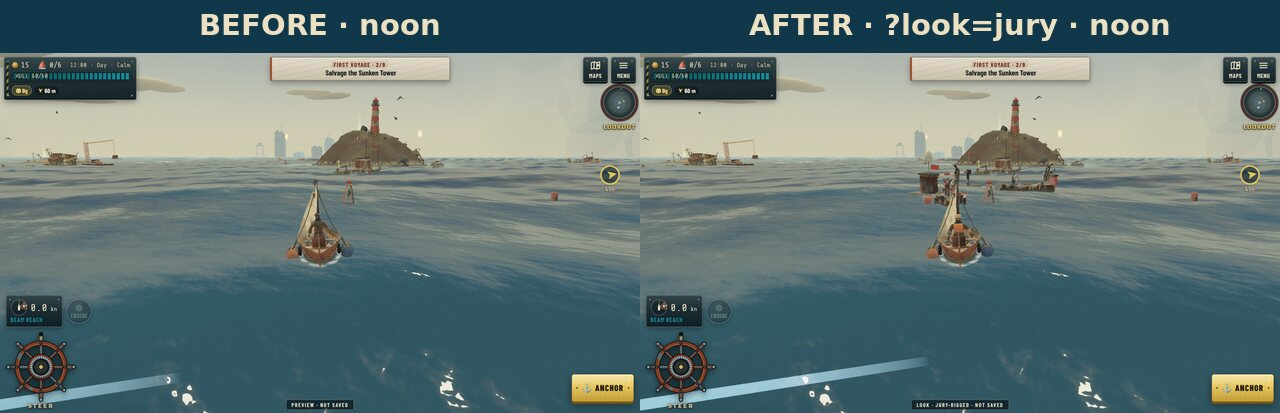
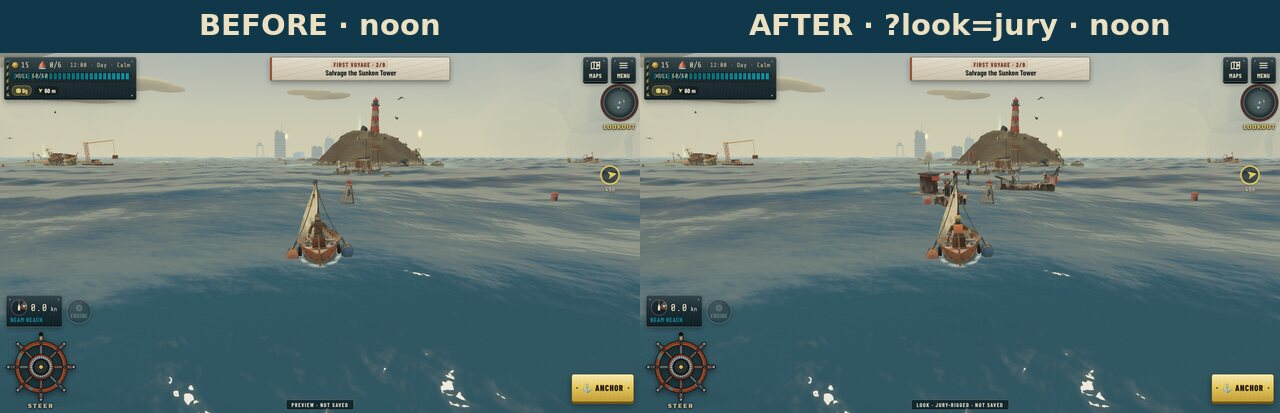
Jury-Rigged correction pass: re-measured captures, perf, silhouettes and results
- docs/jury-rigged: 40 frames re-captured on the correction build (phone, 4 keys; desktop, noon), sheets recomposed,
  perf.json and measure.json replaced, README results and remaining failures rewritten
- C1-C4 pass; C5 passes on triangles, foot slip and isolation, misses on draw calls in the Toll frame (visible new
  patrol) and one Driftholm storm reading; no real-device timing claimed

Claude-Session: https://claude.ai/code/session_0186uXpU7uEjEt1ELp3BgnnR

diff --git a/docs/jury-rigged/README.md b/docs/jury-rigged/README.md
@@ -15,7 +15,7 @@ and east past the harbour mouth. Like `?ship=` and `?exp=`, a look visit is a sa
 |---|---|---|
 | **Captain** (5.6 heads) | Driftholm: round, layered, lashed | wide sun hat cut from a sail (blue patch, goggles on the band); a life jacket worn as armour; rope-wrapped forearm; tin mug on a climbing carabiner. Same face, hair, scar and red scarf. **The tricorn, duster and bandolier are gone.** |
 | **Rustfang raider** (5.7 heads) | Rustfang: welded, sharpened, forward-leaning | a circular saw blade bolted upright on one shoulder, a road sign with spikes on the other, a car-bonnet chest plate, two exhaust pipes standing up from the back, and a saw blade on a scaffold pole instead of a cutlass |
-| **Jawboat** (raider boat) | Rustfang | a 1.9 m circular saw blade as the bow, rebar teeth along the jaw, road-sign warning triangles as shields, an outboard twice the size it needs, four exhaust stacks, a cage outrigger on one side only, tyre fenders, a horn cluster of three car klaxons, and a trophy rack of other crews' nameplates |
+| **Jawboat** (raider boat) | Rustfang | an open mouth at the bow: a welded upper jaw with teeth raking forward over a 1.9 m circular saw blade; road-sign warning triangles as shields, an outboard twice the size it needs with four exhaust stacks raked back off the transom, a cage outrigger on one side only, tyre fenders, three car klaxons, and a low trophy post of other crews' nameplates with the Rustfang rag |
 | **Signal Stack** (Driftholm landmark, 22 m) | Driftholm | drums under a deck, two containers stacked crosswise, a white plastic water tank, a scaffold lattice, a satellite dish turned up into a crow's nest, a traffic light re-glazed red/amber/bottle-white (its green lens is gone: green means alive here), an airport windsock, four guy lines with laundry bunting and festoon bulbs |
 | **Pier** | Driftholm | a clawfoot bath hung from a pipe davit as the lifeboat; supermarket trolleys as lobster pots, one let down on its rope with a jerrycan marker |
 | **The Toll** | Rustfang | a striped car-park barrier across the approach with saw teeth welded on top, a plate toll booth with a lit hatch and a STOP sign, two drum rafts, a red rag; two Jawboats patrol it |
@@ -23,7 +23,7 @@ and east past the harbour mouth. Like `?ship=` and `?exp=`, a look visit is a sa
 The 5.5-head cast is built by the existing MeshCraft script (`creative/3d-characters/scripts/survivors.py`): a
 **proportion pass** (`JURY`, `jury_warp`) scales each bone's own vertices and its children's offsets, so the same 22-bone
 rig, skin weights and clips carry over. The walk is the same procedural gait, retuned to the new legs (`retune()` in
-`src/player/gait.ts`): shorter stride, quicker cadence, livelier arms. Everything else is plain vertex-coloured
+`src/player/gait.ts`): shorter stride, quicker cadence, livelier arms, and a toe-off that hinges on the toe joint. Everything else is plain vertex-coloured
 geometry from `src/world/jury.ts`, merged into the existing batches.
 
 Sun-faded plastic (five approved accents) is tagged as plastic, so the weathering shader keeps more of its colour
@@ -31,57 +31,78 @@ and never rusts it; everything untagged is graded exactly as before.
 
 ## Results against the criteria
 
-The criteria were committed before implementation (`CRITERIA.md`, commit d9e9391). Numbers are from
-`scripts/jury-measure.mjs` (`measure.json`), `scripts/jury-shots.mjs` (`perf.json`) and `tests/jury.test.ts`.
-Captures: iPhone 17 viewport (402×874, DPR 2) and desktop 1280×720, headless Chromium with SwiftShader.
+The criteria were committed before implementation (`CRITERIA.md`, commit d9e9391). Numbers come from
+`scripts/jury-measure.mjs` (`measure.json`), `scripts/jury-shots.mjs` (`perf.json`) and `tests/jury.test.ts`, re-run
+after the correction pass on the PR head, which includes `main` through PR #66. "Today" means the default look on that
+same build: since #66, the default captain wears a salvage helmet instead of the tricorn.
 
 | # | Criterion | Result | Verdict |
 |---|---|---|---|
-| C1 | 5.5 ± 0.3 heads | captain **5.63**, raider **5.71** (today: 7.61 and 7.61, same method) | **Pass** |
-| C2 | silhouettes at 40 px: IoU ≤ 0.70 and lower than today | captain vs raider **0.642** (today 0.738): pass. Skiff vs Jawboat **0.340** (today 0.334): under 0.70, but **not lower than today** | **Partial**: characters pass; boats miss the "lower than today" clause by 0.006 |
-| C3 | Signal Stack tallest on screen, ≥ 40 px, lit at night | **157 CSS px** tall, its top 39 px above anything else in Driftholm, in all four keys; the lamps and festoon bulbs render at night | **Pass** |
-| C4 | accents ≤ 10 % of every frame; none green or gold | max **3.0 %** (on foot by the Stack), 0.2–0.8 % at sea; palette test passes | **Pass** |
-| C5 | ≤ +10 % triangles, ≤ +2 draw calls; feet slip ≤ 1 cm; default fetches nothing | triangles at most **+9.5 %** in any frame (phone and desktop): pass. Draw calls: see below. Flat-foot slip **0.01 cm** walking, **0.07 cm** running; toe-off **1.72 / 2.76 cm**. A default visit fetched **no** Jury-Rigged file (the code, about 8 KB gzipped, ships dormant inside the existing game bundle), and all **480** tests pass | **Partial**: draw calls and toe-off slip miss |
+| C1 | 5.5 ± 0.3 heads | captain **5.63**, raider **5.71** (today 7.61 and 7.61, same method) | **Pass** |
+| C2 | 40 px silhouettes: IoU ≤ 0.70 and lower than today | captain vs raider **0.642** (today 0.678); Patchwork Skiff vs Jawboat **0.279** (today 0.334) | **Pass** |
+| C3 | Signal Stack tallest on screen, ≥ 40 px, lit at night | **157 px** tall on phone (167 on desktop), its top 39 px above anything else in Driftholm, in all four keys; lamps and festoon bulbs render at night | **Pass** |
+| C4 | accents ≤ 10 % of every frame; none green or gold | at most **3.0 %** (on foot by the Stack), under 0.8 % at sea; palette test passes | **Pass** |
+| C5 | ≤ +10 % triangles, ≤ +2 draw calls, foot slip ≤ 1 cm, default fetches nothing | triangles at most **+8.3 %** in any frame. Foot slip: flat **0.00 / 0.01 cm**, toe-off **0.67 / 0.71 cm** (walk / run). The default visit fetched **no** Jury-Rigged file. Draw calls: within +2 in 14 of 15 like-for-like readings (Driftholm, Graveyard, on foot; phone and desktop); Driftholm in storm **+4**; the Toll frame **+6 to +9** | **Partial**: draw calls only |
 
-### Where it misses, and why
+### Correction pass (what changed and what it measured)
 
-- **C2, boats.** The old raider skiff was already a very different shape from the player's sailing skiff (no mast,
-  low box), so the overlap was already low (0.334). The Jawboat's overlap is the same (0.340) while its silhouette is
-  far more specific: the saw-blade bow and the exhaust stacks (see `silhouettes_40px.png`). The criterion was written
-  without measuring that baseline first. I did not reshape the boat to move the number.
-- **C5, draw calls.** In the like-for-like frames (the Rustfang Graveyard, on foot) the change is −2 to +3 calls,
-  which is within the frame-to-frame noise of FX sprites (±2 between keys of the same look). The **Driftholm** and
-  **Toll** frames add **+3 to +8**, because the toll's patrol is new content near the harbour: two Jawboats (one call
-  each) and four raider crew, whom the existing character code never frustum-culls. That is the cost of the
-  encounter, not of the look, but by the criterion's letter it is a miss.
-- **C5, isolation.** The first full run caught a default visit fetching a small `jury-*.js` chunk (the code split out
-  only because the measurement hooks imported it dynamically). The hooks moved into the game module; the re-check
-  shows a default visit fetching no Jury-Rigged file. The code itself still ships, dormant, in the game bundle.
-- **C5, toe-off slip.** The flat foot is planted to 0.01 cm. At toe-off the solver rocks the foot over the ground
-  contact under the ball, so the toe *joint*, which sits a few cm above the sole, travels with the roll. Today's
-  captain measures 1.72 / 2.77 cm by the same method, so the 1 cm bar was stricter than the current rig. The larger
-  boots would have made it worse (2.30 / 3.88 cm); the retune now scales the roll by foot size, so the new captain
-  matches today's rig exactly.
+- **Raider crew culling.** Characters are built with culling off, because a skinned mesh's bounds don't follow its
+  animation. On a look visit each raider crew mesh now gets its own bounding sphere (bind pose plus 0.9 m for the
+  glaive's swing) and is culled. A patrol off-screen no longer draws. In the Driftholm frame (the toll patrol behind
+  the camera) the overhead fell from +3…+5 calls and +8.7 % triangles to −1…+4 and +1.7 %. The Graveyard frame went
+  from +0…+3 / +9 % to −5…−1 / −2.3…+2.1 %. Visible crews still render; there is no pop at the edges of the screen.
+  The default look keeps its unculled crews (unchanged by design, so it stays byte-for-byte isolated).
+- **Jawboat silhouette.** The 40 px sheet showed the "Jawboat" had no jaw at phone scale, and that its height came
+  from a thin whip aerial. The bow is now an open mouth: a welded upper jaw with teeth over the saw blade, which
+  replaces two support beams and eight rebar spikes. The stacks moved onto the transom, raked back, and the trophy
+  post was lowered with the rag on it. Overlap with the player's skiff: **0.340 → 0.279** (today's raider skiff
+  0.334). The first attempt (jaw and stacks only) measured 0.354, worse, and was not kept as is; the low trophy post is
+  what lets the boat read low and long.
+- **Captain toe-off.** The original solver rocks the foot about the ground under the ball, so the toe *joint*, a few cm
+  above the sole, travels with the roll. The stylised rig now hinges on the toe joint itself (`GaitParams.toeHinge`),
+  as a foot does at the ball, and bakes 96 keys per stride instead of 40, so the last stance key no longer blends into
+  swing. Toe-off slip: **1.72 → 0.67 cm** walking, **2.76 → 0.71 cm** running, with the full toe-off roll (the earlier
+  reduced-roll workaround is gone) and the heel still rising 7.3 / 8.6 cm. Running the existing gait-quality suite
+  on this rig exposed a weakness from the first retune: the walk's pelvis bob was 0.9 cm (human range 2–5). The walk's
+  stride now scales with √(leg length), which restores a **3.2 cm** bob (run 8.1 cm) and still steps quicker than
+  today. The default cast's gait is untouched; both checks are now in `tests/jury.test.ts`.
 
-### Performance (phone, matched frames)
+### Remaining failures
 
-| Frame | Draw calls (default → jury) | Triangles | Accent share |
+- **C5 draw calls, Toll frame (+6 to +9).** Here the patrol is on screen: two Jawboats (one call each) and four crew
+  (one each) are new content the default look doesn't have at that spot. They can't be culled while visible; folding
+  the crew into fewer calls would need a skinned-instancing path, which is out of scope for this pass.
+- **C5 draw calls, Driftholm in storm (+4).** The other three keys are −1, 0 and 0. Storm FX (rain sheets, spray)
+  vary the count by ±2–4 between runs of the *same* look; I couldn't separate noise from cause in software GL, so it
+  is reported as a miss.
+- **Graveyard in storm, accent share 0 %.** The full squall swell puts the camera in a trough and the wave hides the
+  Jawboats (the default storm frame is framed the same way). It's a framing artefact, not missing geometry.
+
+### Performance (phone, matched frames, default → jury)
+
+| Frame | Draw calls (noon / dusk / night / storm) | Triangles | Accent share |
 |---|---|---|---|
-| The Toll (noon/dusk/night/storm) | 107→114, 96→103, 96→104, 99→103 | +8.1 to +8.2 % | 0.25–0.41 % |
-| Driftholm approach | 73→77, 67→70, 66→71, 68→71 | +8.7 % | 0.17 % |
-| Rustfang Graveyard (raiders) | 73→76, 71→71, 72→72, 73→71 | +9.0 to +9.5 % | 0.22–0.76 % |
-| On foot by the Stack | 108→111, 93→92, 94→94, 98→98 | −0.5 to −0.3 % | 3.0 % |
+| The Toll | 107→115, 94→103, 96→103, 98→104 | +8.3 % | 0.22–0.37 % |
+| Driftholm approach | 73→72, 67→67, 66→66, 67→71 | +1.7 % | 0.17 % |
+| Rustfang Graveyard (raiders) | 73→68, 71→70, 71→68, 73→69 | −2.3 to +2.1 % | 0–0.74 % |
+| On foot by the Stack | 109→108, 94→95, 94→93, 97→97 | −0.1 to +0.4 % | 3.0 % |
 
-Desktop, noon: Toll 145→150 (+8.0 % tris), Driftholm 102→105 (+8.1 %; Stack 167 px tall, 42 px clear of the
-town), Graveyard 84→86 (+9.0 %), on foot 159→162 (+6.7 %); accents 0.07–0.98 %.
+Desktop, noon: Toll 145→152 (+7.9 % tris), Driftholm 102→100 (+1.6 %), Graveyard 85→80 (−2.2 %), on foot 160→157
+(−0.2 %); accents 0.07–0.98 %.
 
-Software-GL frame times are noisy and only relative; they are in `perf.json`. Real-device GPU timing is not
-measured here. New downloads on a look visit only: `tb_jury_captain.glb` 356 KB, `tb_jury_raider.glb` 303 KB.
+**Default look unchanged:** the default frames match the previous run within ±2 draw calls (FX noise) and +256
+triangles, which is `main`'s helmeted captain, not this PR. A default visit requests no Jury-Rigged file; the code,
+about 8 KB gzipped, ships dormant in the game bundle. On a look visit the only extra downloads are
+`tb_jury_captain.glb` (356 KB) and `tb_jury_raider.glb` (303 KB).
+
+**Not validated here:** frame times. Every number above comes from headless Chromium with SwiftShader (software
+GL); `msPerFrame` in `perf.json` is relative only. Frame rate, GPU time, thermals and memory on an iPhone have **not**
+been measured and need a real-device check before rollout.
 
 ## Captures
 
 `screens/`: for each frame, `<viewport>-<frame>_4-keys_before-after.jpg` (noon, dusk, night and storm as rows; default
-left, `?look=jury` right) and `<viewport>-<frame>_noon_before-after.jpg`. Desktop is captured at noon only.
+left, `?look=jury` right) and `<viewport>-<frame>_noon_before-after.jpg`. Desktop is captured at noon only. All captures are from the correction-pass build.
 `silhouettes_40px.png`: today's captain, today's raider, the new captain, the new raider; then the Patchwork Skiff,
 today's raider skiff, the Jawboat (all solid, 40 px tall, enlarged 4×). `characters/`: MeshCraft previews.
 
@@ -103,8 +124,9 @@ and `node scripts/jury-compose.mjs <out> docs/jury-rigged/screens`.
 - The crew, the townsfolk and the other settlements are unchanged; only the captain and the raiders were rebuilt.
 - Exaggerated character busts for dialogue and crew cards, and faction dock-board headers, were proposed for UI but
   are not in this pass (the HUD layout was to stay unchanged).
-- Raider crew are never frustum-culled (existing behaviour in `assets.ts`); culling them would recover most of the
-  toll's extra draw calls.
+- The default look's raider crews are still never culled (existing behaviour); the look-visit fix could graduate to
+  the default look in its own PR.
 - Accent coverage is low at sea (under 1 %). If the frames should feel more colourful, the next lever is patched sail
   panels on the player's boats.
-- A real-iPhone performance check is still needed before any rollout.
+- **iPhone-only validation still to do:** frame rate and GPU time at the toll with both Jawboats and crews on screen,
+  memory with the two extra character GLBs, and touch/feel of the retuned walk on a real device.
